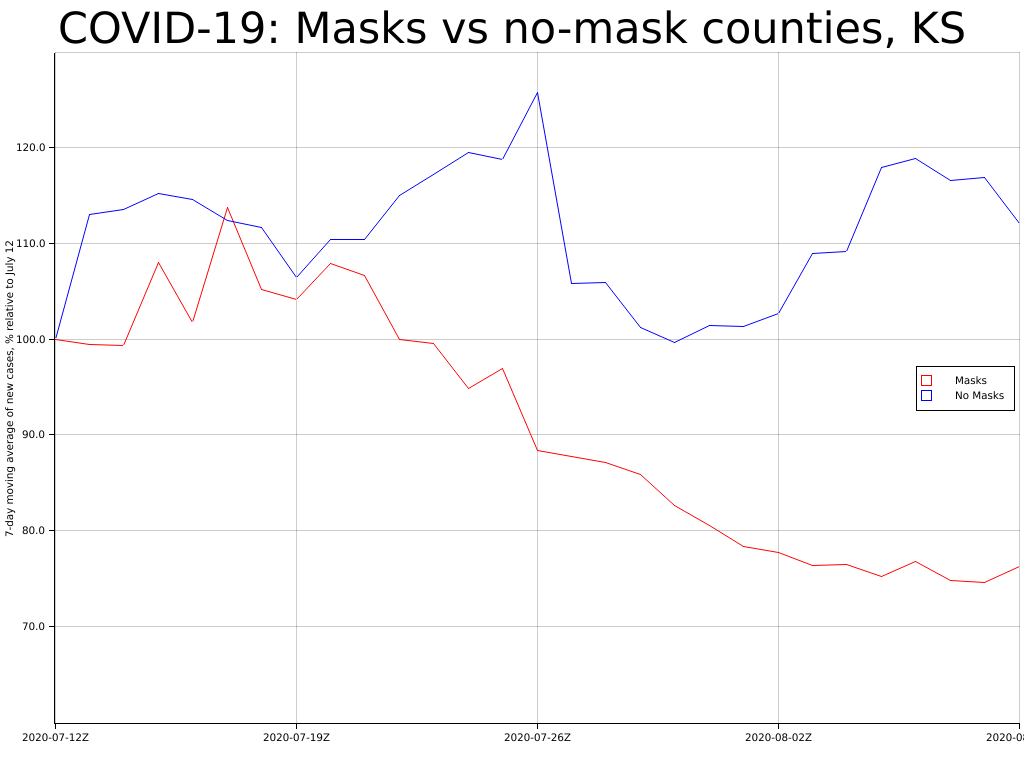
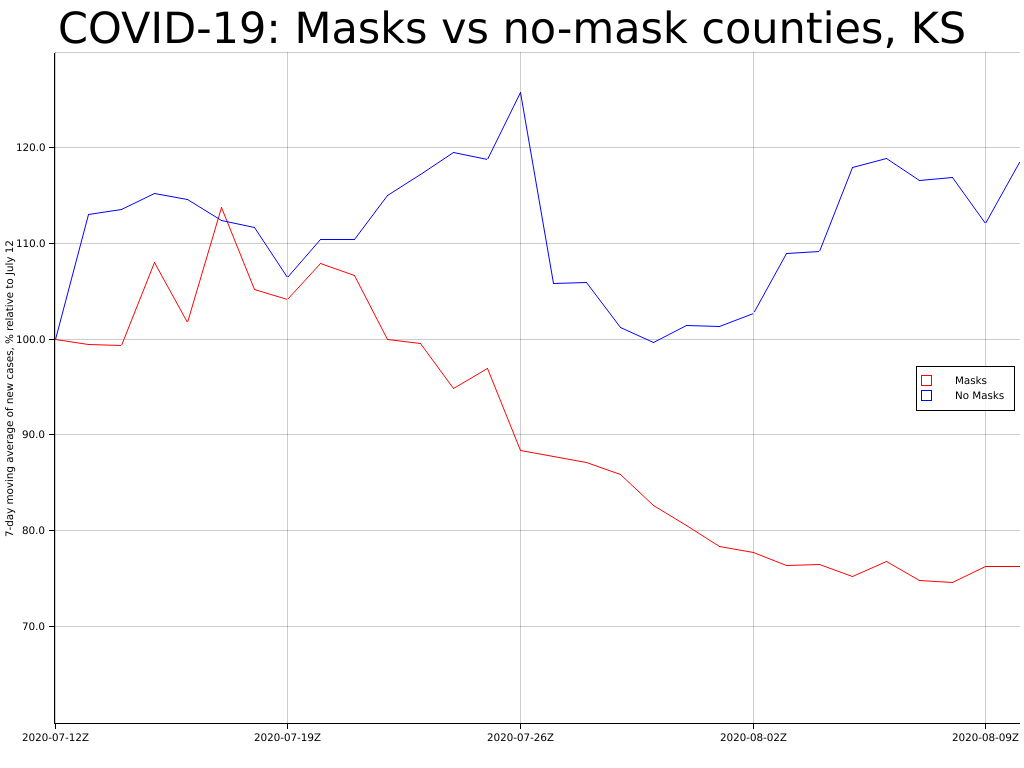
more fixes

diff --git a/src/charts.rs b/src/charts.rs
@@ -19,11 +19,10 @@ Copyright (c) 2020 John Goerzen
 
 use plotters::prelude::*;
 use std::collections::HashMap;
-use std::ops::{Bound, RangeBounds};
 
 use covid19db::dateutil::*;
 
-pub fn write<T: Clone + RangeBounds<i32> + IntoIterator<Item = i32>>(
+pub fn write(
     filename: &str,
     title: &str,
     yaxis: &str,
@@ -31,20 +30,9 @@ pub fn write<T: Clone + RangeBounds<i32> + IntoIterator<Item = i32>>(
     ymax: f64,
     masks: &HashMap<i32, f64>,
     nomasks: &HashMap<i32, f64>,
-    datelist: &T
+    firstdate: i32,
+    lastdate: i32,
 ) {
-    let firstdate = match datelist.start_bound() {
-        Bound::Included(t) => *t,
-        Bound::Excluded(t) => *t + 1,
-        Bound::Unbounded => panic!("Unbounded date range not supported"),
-    };
-    let lastdate = match datelist.end_bound() {
-        Bound::Included(t) => *t,
-        Bound::Excluded(t) => *t - 1,
-        Bound::Unbounded => panic!("Unbounded date range not supported"),
-    };
-
-   
     let root = BitMapBackend::new(filename, (1024, 768)).into_drawing_area();
     root.fill(&WHITE).unwrap();
 
@@ -54,7 +42,7 @@ pub fn write<T: Clone + RangeBounds<i32> + IntoIterator<Item = i32>>(
         .y_label_area_size(50)
         .margin(5)
         .caption(title, ("sans-serif", 50.0).into_font())
-        .build_ranged(day_to_dateutc(firstdate)..day_to_dateutc(lastdate), ymin..ymax)
+        .build_ranged(day_to_dateutc(firstdate)..(day_to_dateutc(lastdate)), ymin..ymax)
         .unwrap();
 
     chart
@@ -69,7 +57,7 @@ pub fn write<T: Clone + RangeBounds<i32> + IntoIterator<Item = i32>>(
 
     chart
         .draw_series(LineSeries::new(
-            datelist.clone()
+            (firstdate..=lastdate)
                 .into_iter()
                 .filter_map(|d| masks.get(&d).map(|x| (d, x)))
                 .map(|(x, y)| (day_to_dateutc(x), 100f64 * y / masksday0)),
@@ -81,7 +69,7 @@ pub fn write<T: Clone + RangeBounds<i32> + IntoIterator<Item = i32>>(
 
     chart
         .draw_series(LineSeries::new(
-            datelist.clone()
+            (firstdate..=lastdate)
                 .into_iter()
                 .filter_map(|d| nomasks.get(&d).map(|x| (d, x)))
                 .map(|(x, y)| (day_to_dateutc(x), 100f64 * y / nomasksday0)),
@@ -99,7 +87,7 @@ pub fn write<T: Clone + RangeBounds<i32> + IntoIterator<Item = i32>>(
         .unwrap();
 }
 
-pub fn writecounties<T: Clone + RangeBounds<i32> + IntoIterator<Item = i32>>(
+pub fn writecounties(
     filename: &str,
     title: &str,
     yaxis: &str,
@@ -107,20 +95,10 @@ pub fn writecounties<T: Clone + RangeBounds<i32> + IntoIterator<Item = i32>>(
     ymax: f64,
     counties: &Vec<&str>,
     bycounty: &HashMap<String, HashMap<i32, f64>>,
-    datelist: &T,
+    firstdate: i32,
+    lastdate: i32
 )
 {
-    let firstdate = match datelist.start_bound() {
-        Bound::Included(t) => *t,
-        Bound::Excluded(t) => *t + 1,
-        Bound::Unbounded => panic!("Unbounded date range not supported"),
-    };
-    let lastdate = match datelist.end_bound() {
-        Bound::Included(t) => *t,
-        Bound::Excluded(t) => *t - 1,
-        Bound::Unbounded => panic!("Unbounded date range not supported"),
-    };
-
     let root = BitMapBackend::new(filename, (1024, 768)).into_drawing_area();
     root.fill(&WHITE).unwrap();
 
@@ -148,7 +126,7 @@ pub fn writecounties<T: Clone + RangeBounds<i32> + IntoIterator<Item = i32>>(
 
         chart
             .draw_series(LineSeries::new(
-                datelist.clone()
+                (firstdate..=lastdate)
                     .into_iter()
                     .filter_map(|d| data.get(&d).map(|x| (d, x)))
                     .map(|(x, y)| (day_to_dateutc(x), 100f64 * y / day0)),

diff --git a/src/main.rs b/src/main.rs
@@ -45,9 +45,9 @@ async fn main() {
     let data_first_date = ymd_to_day(2020, 5, 29);
     let data_last_date = ymd_to_day(2020, 8, 10);
 
-    let daterange_output = first_date..=last_date;
-    let daterange_full = data_first_date..=data_last_date;
-    let daterange_updated = first_date..data_last_date;
+    let _daterange_output = first_date..=last_date;
+    let _daterange_full = data_first_date..=data_last_date;
+    let _daterange_updated = first_date..data_last_date;
 
     // Source: https://www.kansas.com/news/politics-government/article244091222.html
     let maskcounties = counties::Counties::new(vec![
@@ -100,7 +100,8 @@ async fn main() {
         130f64,
         &nytmasks,
         &nytnomasks,
-        &daterange_output,
+        first_date,
+        last_date
     );
 
     charts::write(
@@ -111,7 +112,8 @@ async fn main() {
         150f64,
         &jhumasks,
         &jhunomasks,
-        &daterange_output,
+        first_date,
+        last_date,
     );
 
     charts::write(
@@ -122,7 +124,8 @@ async fn main() {
         130f64,
         &nytmasks,
         &nytnomasks,
-        &daterange_updated,
+        first_date,
+        data_last_date,
     );
 
     charts::write(
@@ -133,7 +136,8 @@ async fn main() {
         150f64,
         &jhumasks,
         &jhunomasks,
-        &daterange_updated,
+        first_date,
+        data_last_date,
     );
 
     ////////////// Replace the in-ram data with the deaths data.
@@ -155,7 +159,8 @@ async fn main() {
         400f64,
         &nytmasks,
         &nytnomasks,
-        &daterange_output,
+        first_date,
+        last_date,
     );
     charts::write(
         "images/deaths-jhu.png",
@@ -165,7 +170,8 @@ async fn main() {
         400f64,
         &jhumasks,
         &jhunomasks,
-        &daterange_output,
+        first_date,
+        last_date
     );
     charts::write(
         "images/deaths-updated-nyt.png",
@@ -175,7 +181,8 @@ async fn main() {
         400f64,
         &nytmasks,
         &nytnomasks,
-        &daterange_updated,
+        first_date,
+        data_last_date,
     );
     charts::write(
         "images/deaths-updated-jhu.png",
@@ -185,7 +192,8 @@ async fn main() {
         400f64,
         &jhumasks,
         &jhunomasks,
-        &daterange_updated,
+        first_date,
+        data_last_date,
     );
 
     /////////////////// Counties
@@ -206,7 +214,8 @@ async fn main() {
         200f64,
         &vec!["Marion", "McPherson", "Harvey", "Saline"],
         &nytbycounty,
-        &daterange_output,
+        first_date,
+        last_date,
     );
     charts::writecounties(
         "images/counties-jhu.png",
@@ -216,7 +225,8 @@ async fn main() {
         300f64,
         &vec!["Marion", "McPherson", "Harvey", "Saline"],
         &jhubycounty,
-        &daterange_output,
+        first_date,
+        last_date,
     );
     charts::writecounties(
         "images/counties-updated-nyt.png",
@@ -226,7 +236,8 @@ async fn main() {
         200f64,
         &vec!["Marion", "McPherson", "Harvey", "Saline"],
         &nytbycounty,
-        &daterange_updated,
+        first_date,
+        data_last_date,
     );
     charts::writecounties(
         "images/counties-updated-jhu.png",
@@ -236,6 +247,7 @@ async fn main() {
         400f64,
         &vec!["Marion", "McPherson", "Harvey", "Saline"],
         &jhubycounty,
-        &daterange_updated,
+        first_date,
+        data_last_date,
     );
 }

diff --git a/src/analysis.rs b/src/analysis.rs
@@ -1,6 +1,6 @@
 /* Analysis
 
-Copyright (c) 2019 John Goerzen
+Copyright (c) 2020 John Goerzen
 
     This program is free software: you can redistribute it and/or modify
     it under the terms of the GNU General Public License as published by
